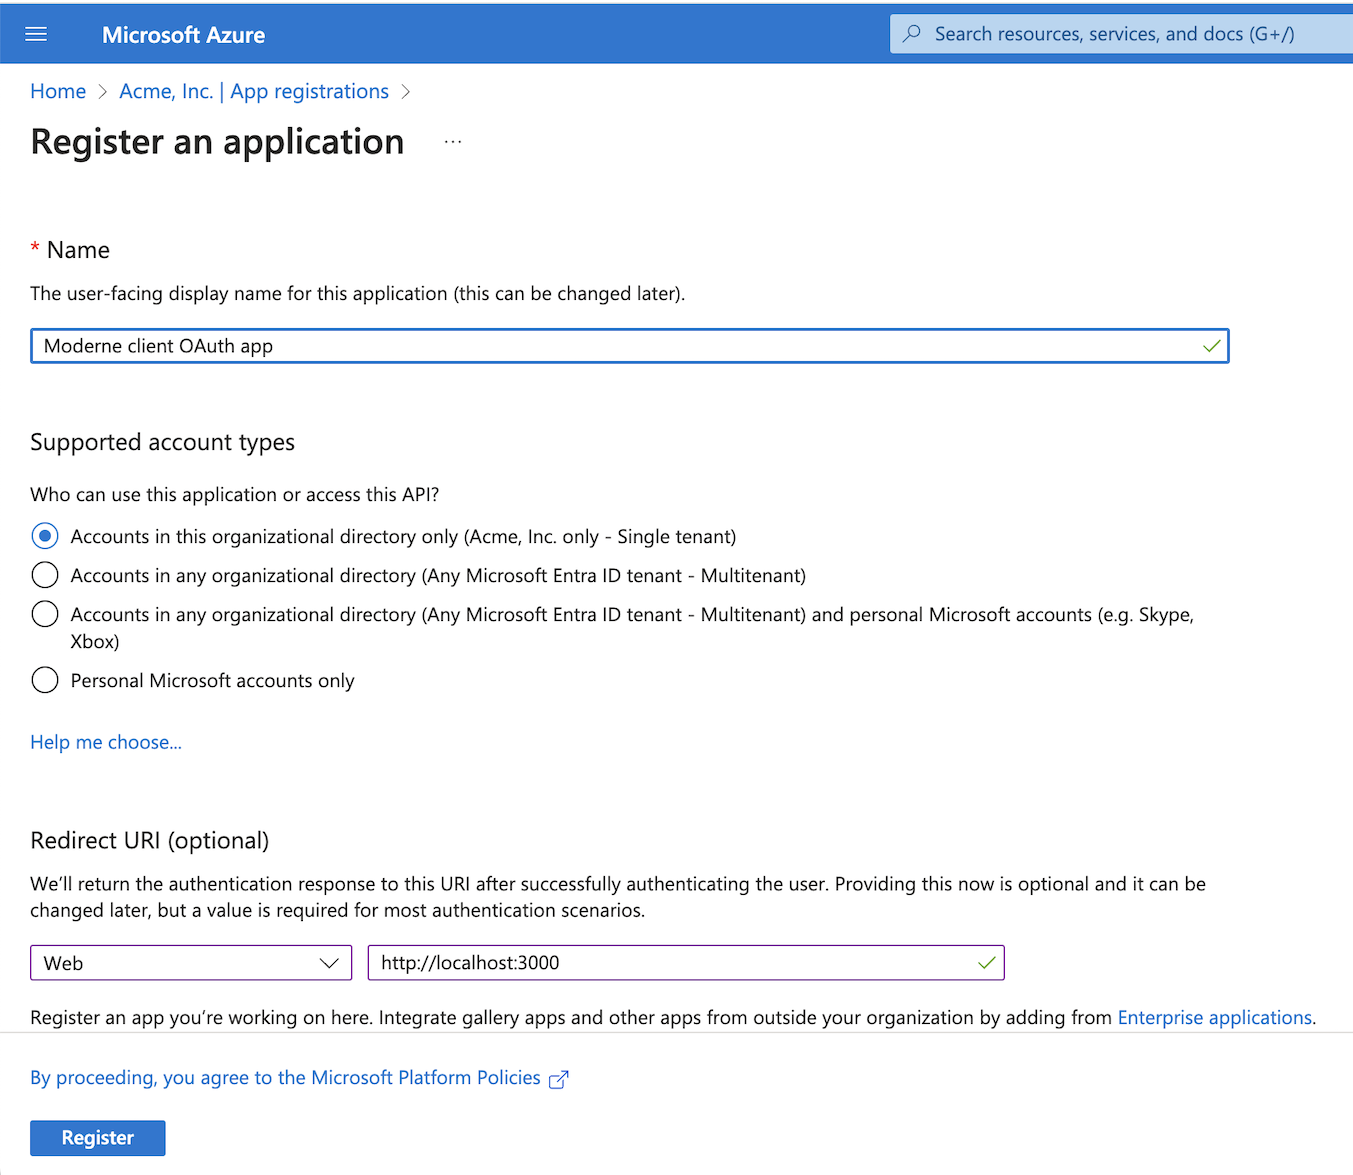
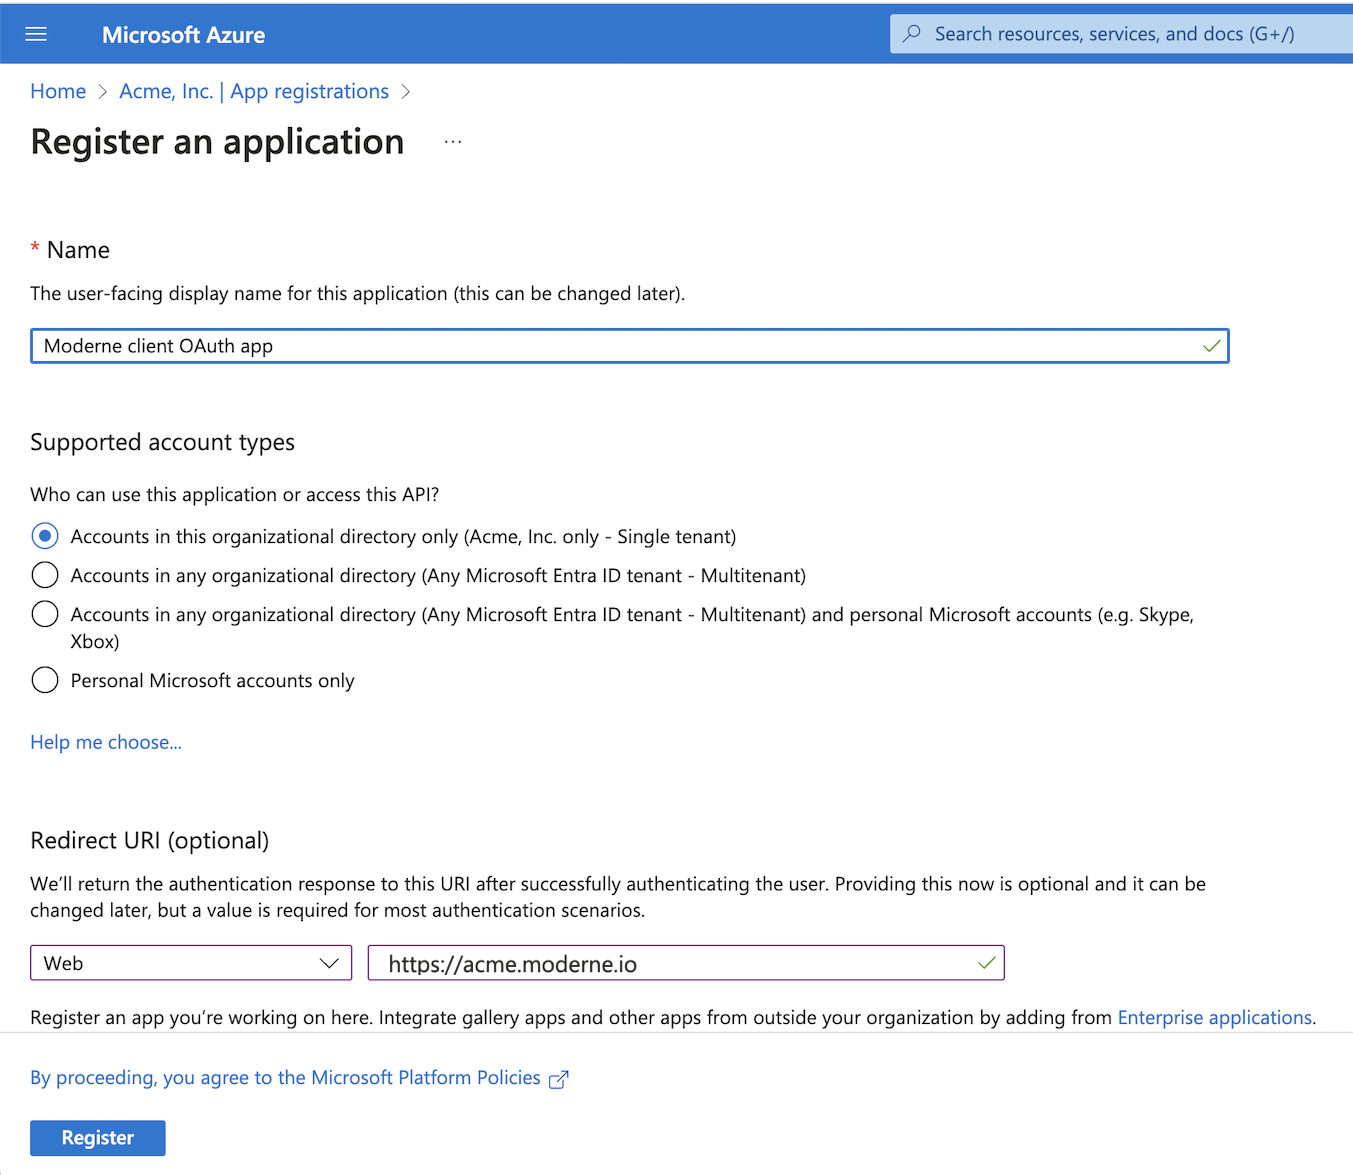
fix: Update Azure DevOps OAuth redirect URL to tenant URL

Changed region(s): [[0.2794, 0.7966, 0.4656, 0.8272]]

diff --git a/administrator-documentation/moderne-platform/how-to-guides/agent-configuration/configure-an-agent-with-azure-devops-services.md b/administrator-documentation/moderne-platform/how-to-guides/agent-configuration/configure-an-agent-with-azure-devops-services.md
@@ -19,7 +19,7 @@ Azure DevOps Services supports two OAuth 2.0 models: Microsoft Entra ID OAuth an
 5. In the Register an application form:
     1. Enter "Moderne client OAuth app" or similar in the **Name** field
     2. Select **Single Tenant** under **Supported account types**
-    3. In the **Redirect URI** section, enter a Web platform entry with the URL http://localhost:3000
+    3. In the **Redirect URI** section, enter a Web platform entry with the URL https://your-domain.moderne.io
         * ![](<../../../../.gitbook/assets/azure_entra_id_register_an_application.png>)
 6. Click **Register**
 7. In the app's Overview page click **Add a certificate or secret**
